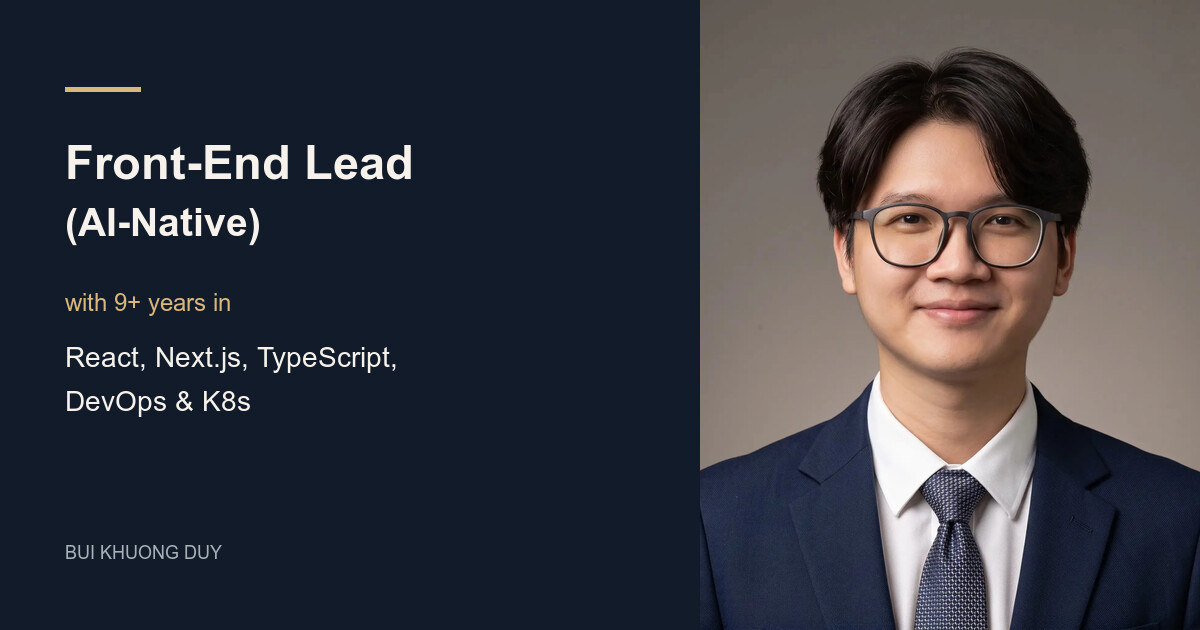
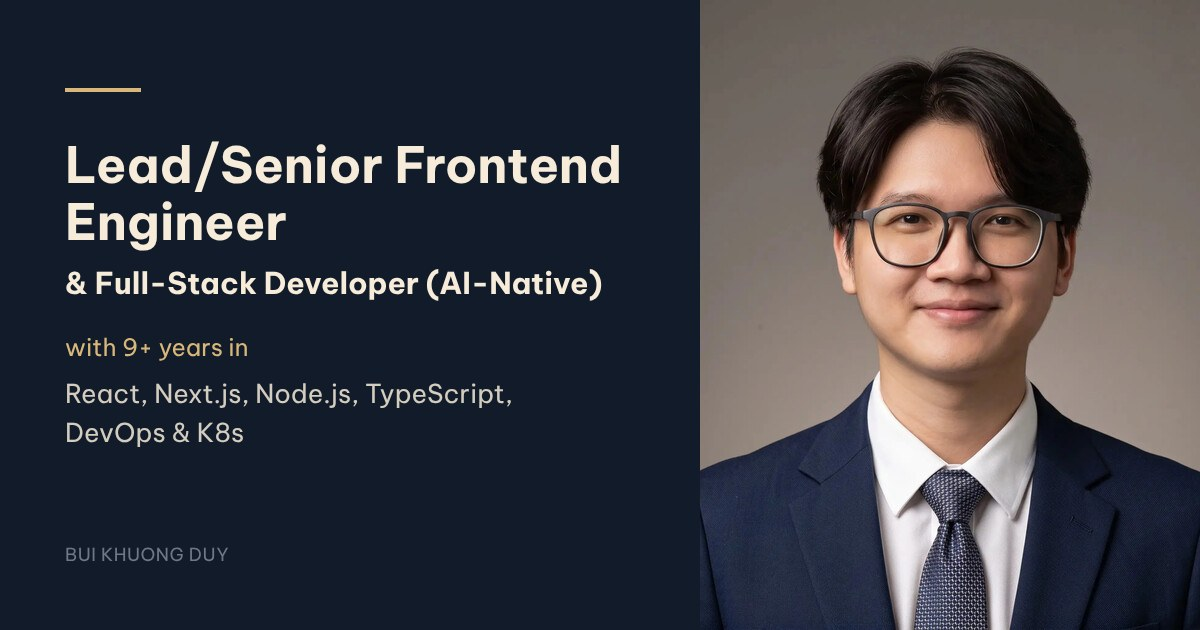
Align OG image, meta descriptions and Person JSON-LD with new title
- Redraw og-image.jpg text panel: Lead/Senior Frontend Engineer & Full-Stack Developer (AI-Native)
- Shorten home and About descriptions to ~145 chars so Google shows them in full
- Add homeLocation, past employers (alumniOf) and the CV PDF (subjectOf) to Person
- Share the CV PDF path through data/profile.ts

Claude-Session: https://claude.ai/code/session_01A35E3LEMpXJ3ByvGFT3Z5H

diff --git a/src/i18n/ui.ts b/src/i18n/ui.ts
@@ -10,11 +10,11 @@ export const defaultLang: Lang = "vi";
 export const ui = {
   vi: {
     "site.name": "Bùi Khương Duy",
-    "site.description": "Bùi Khương Duy – Lead/Senior Frontend Engineer và Full-Stack Developer (AI-Native) với hơn 9 năm kinh nghiệm React, Next.js, Node.js, TypeScript, DevOps và Kubernetes. Kinh nghiệm, dự án và bài viết blog.",
+    "site.description": "Bùi Khương Duy, Lead/Senior Frontend Engineer & Full-Stack Developer (AI-Native), hơn 9 năm làm React, Next.js, Node.js, TypeScript và DevOps.",
     "seo.homeTitle": "Bùi Khương Duy – Lead/Senior Frontend & Full-Stack Engineer",
     "seo.jobTitle": "Lead/Senior Frontend Engineer & Full-Stack Developer (AI-Native)",
     "seo.ogImageAlt": "Bùi Khương Duy — Lead/Senior Frontend Engineer & Full-Stack Developer (AI-Native), hơn 9 năm kinh nghiệm React, Next.js, Node.js, TypeScript & DevOps",
-    "seo.about": "Kinh nghiệm, kỹ năng và dự án của Bùi Khương Duy – Lead/Senior Frontend Engineer và Full-Stack Developer hơn 9 năm làm React, Next.js, Node.js, TypeScript, AI agents và hạ tầng cloud.",
+    "seo.about": "Kinh nghiệm, kỹ năng và dự án của Bùi Khương Duy, Lead/Senior Frontend Engineer & Full-Stack Developer hơn 9 năm làm React, Next.js, Node.js.",
     "seo.blog": "Blog của Bùi Khương Duy về frontend, React, Next.js, TypeScript, AI agents và DevOps: ghi chép, kinh nghiệm thực tế và bài học rút ra.",
     "seo.contact": "Liên hệ Bùi Khương Duy – sẵn sàng cho vai trò Lead/Senior Frontend Engineer hoặc Full-Stack Developer theo hướng AI-native. Email, LinkedIn, GitHub và CV.",
     // "|" marks allowed line breaks; each segment stays on a single line.
@@ -185,11 +185,11 @@ export const ui = {
   },
   en: {
     "site.name": "Bui Khuong Duy",
-    "site.description": "Bui Khuong Duy – Lead/Senior Frontend Engineer and Full-Stack Developer (AI-Native) with 9+ years in React, Next.js, Node.js, TypeScript, DevOps and Kubernetes. Explore my experience, projects and blog posts.",
+    "site.description": "Bui Khuong Duy, Lead/Senior Frontend Engineer & Full-Stack Developer (AI-Native) with 9+ years in React, Next.js, Node.js, TypeScript and DevOps.",
     "seo.homeTitle": "Bui Khuong Duy – Lead/Senior Frontend & Full-Stack Engineer",
     "seo.jobTitle": "Lead/Senior Frontend Engineer & Full-Stack Developer (AI-Native)",
     "seo.ogImageAlt": "Bui Khuong Duy — Lead/Senior Frontend Engineer & Full-Stack Developer (AI-Native) with 9+ years in React, Next.js, Node.js, TypeScript & DevOps",
-    "seo.about": "Experience, skills and projects of Bui Khuong Duy, a Lead/Senior Frontend Engineer and Full-Stack Developer with 9+ years in React, Next.js, Node.js, TypeScript, AI agents and cloud infrastructure.",
+    "seo.about": "Experience, skills and projects of Bui Khuong Duy, a Lead/Senior Frontend Engineer & Full-Stack Developer with 9+ years in React, Next.js, Node.js.",
     "seo.blog": "Bui Khuong Duy's blog on front-end engineering, React, Next.js, TypeScript, AI agents and DevOps: notes, hands-on experience and lessons learned.",
     "seo.contact": "Contact Bui Khuong Duy, open to Lead/Senior Frontend Engineer and Full-Stack Developer roles with an AI-native focus. Email, LinkedIn, GitHub and résumé.",
     "site.tagline": "Lead/Senior Frontend Engineer|& Full-Stack Developer (AI-Native)|with 9+ years in|React, Next.js, Node.js, TypeScript & DevOps",

diff --git a/src/lib/seo.ts b/src/lib/seo.ts
@@ -1,4 +1,4 @@
-import { cvUrl, email, socials } from "../data/profile";
+import { cvPdfPath, cvUrl, email, socials } from "../data/profile";
 import { defaultLang, homePath, languages, locales, sectionPaths, ui, type Lang } from "../i18n/ui";
 import type { PageDates } from "./git-dates";
 
@@ -86,6 +86,19 @@ export function structuredData(input: StructuredDataInput) {
     knowsAbout: ["Full-stack engineering", "Front-end engineering", "React", "Next.js", "Node.js", "TypeScript", "GraphQL", "AI agents", "DevOps", "Kubernetes"],
     sameAs: [...socials.map((s) => s.href), cvUrl, "https://kd.io.vn/", "https://github.com/kd-labs-io"],
     worksFor: { "@id": kdLabs["@id"] },
+    homeLocation: {
+      "@type": "Place",
+      name: "Ho Chi Minh City, Vietnam",
+      address: { "@type": "PostalAddress", addressLocality: "Ho Chi Minh City", addressCountry: "VN" },
+    },
+    // Past employers, matching the experience list on the About page and the CV.
+    alumniOf: ["AFD", "10X / Saladin", "Hello Health Group", "Sutrix Group", "Maple Studio"].map((name) => ({ "@type": "Organization", name })),
+    subjectOf: {
+      "@type": "DigitalDocument",
+      name: `${ui.en["site.name"]} CV`,
+      url: abs(cvPdfPath),
+      encodingFormat: "application/pdf",
+    },
   };
 
   const website = {

diff --git a/src/data/profile.ts b/src/data/profile.ts
@@ -1,6 +1,9 @@
 /** Online CV page. */
 export const cvUrl = "https://cv.buikhuongduy.com";
 
+/** Downloadable PDF CV served from public/cv. */
+export const cvPdfPath = "/cv/bui-khuong-duy-cv.pdf";
+
 export const email = "contact@buikhuongduy.com";
 
 export const socials = [
